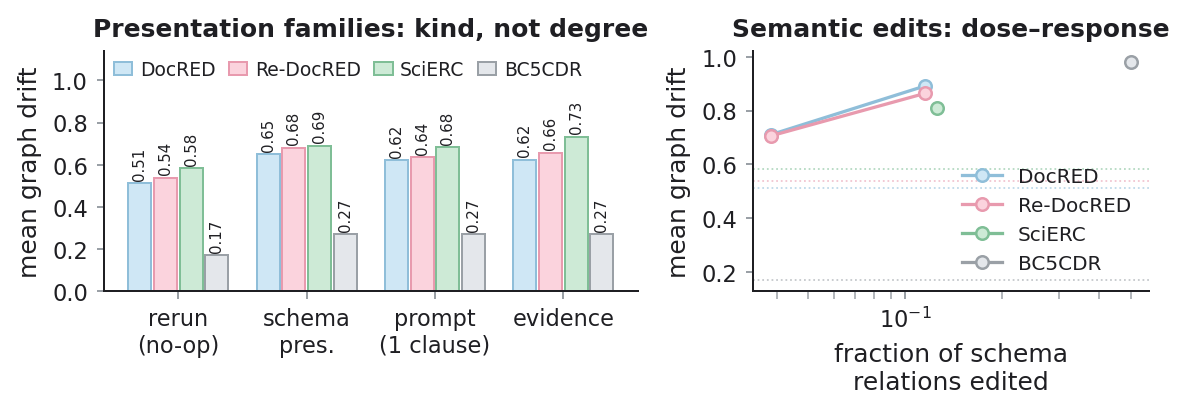
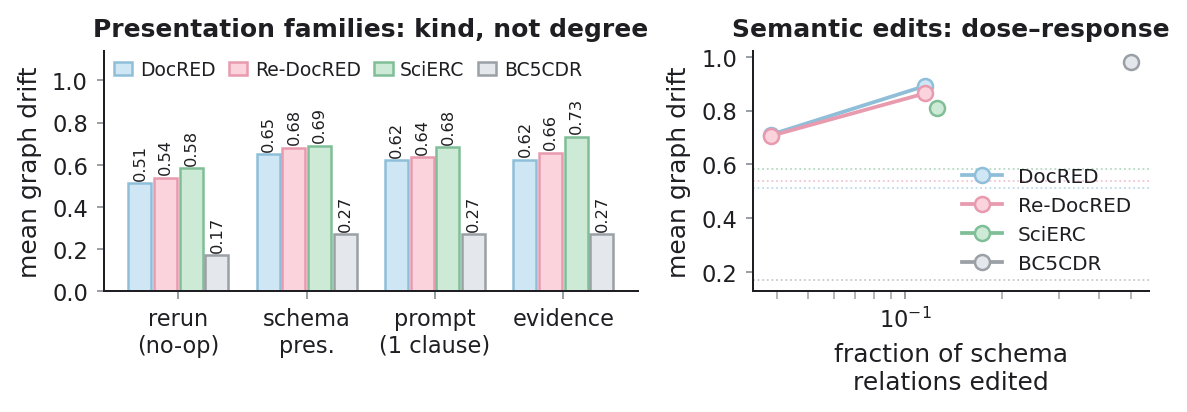
figs: native single-column noise-floor and calibration figures, magnitude polish
Same 1x4 row footprint; fonts now render ~1:1 (were ~43% scale), thicker
edges, vertical bar labels, D0 marked inside each panel, compact legends.

diff --git a/scripts/make_paper_figures.py b/scripts/make_paper_figures.py
@@ -447,11 +447,11 @@ def noise_floor_from_db(tag: str) -> float:
 # ──────────────────────────────────────────────────────────────────────────────
 
 def make_calibration_figure():
-    _S.apply_rc(font_size=10)
-    # Single-column display ~3.5" wide → 2x2 grid keeps each subplot ~1.75" wide.
-    # Keep 1x4 layout per user request, but small canvas so native fonts render large.
-    fig, axes = plt.subplots(1, 4, figsize=(7.6, 2.3), sharey=True)
-    eps = 0.05  # SLA: ≤5% harmful publication rate
+    # Native single-column canvas (like fig_riskcoverage): fonts render ~1:1.
+    _S.apply_rc(font_size=7)
+    fig, axes = plt.subplots(1, 4, figsize=(3.5, 1.4), sharey=True,
+                             gridspec_kw={"wspace": 0.14})
+    eps = 0.05  # SLA: <=5% harmful publication rate
 
     blue_line = _BLUE
     red_line  = _PINK
@@ -462,60 +462,52 @@ def make_calibration_figure():
         pairs = load_pairs(tag)
         taus, cov, harm = compute_calibration(pairs, score_key="graph_drift")
 
-        # Largest τ such that publication harm rate still satisfies SLA.
-        # Smaller τ trivially passes (publishes nothing) → not useful as
-        # an operating point.
         feasible = np.where(harm <= eps)[0]
         if len(feasible):
-            idx_star = feasible[-1]
-            tau_star = taus[idx_star]
-            cov_star = cov[idx_star]
+            tau_star = taus[feasible[-1]]
         else:
-            tau_star = cov_star = None
+            tau_star = None
 
         ax.fill_between(taus, cov, alpha=0.25, color=gray_fill)
-        ax.plot(taus, cov, color=blue_line, lw=1.6, label="Coverage")
-        ax.plot(taus, harm, color=red_line, lw=1.6, ls="--", label="Pub. harm")
-        ax.axhline(eps, color=red_line, lw=0.8, ls=":", alpha=0.7)
+        ax.plot(taus, cov, color=blue_line, lw=1.1, label="Coverage")
+        ax.plot(taus, harm, color=red_line, lw=1.1, ls="--", label="Pub. harm")
+        ax.axhline(eps, color=red_line, lw=0.7, ls=":", alpha=0.7)
         if tau_star is not None:
-            ax.axvline(tau_star, color=green, lw=1.4, ls="-.")
-            ax.text(min(tau_star + 0.04, 0.80), 0.92,
+            ax.axvline(tau_star, color=green, lw=1.1, ls="-.")
+            ax.text(min(tau_star + 0.06, 0.62), 0.9,
                     rf"$\tau^*$={tau_star:.2f}",
-                    fontsize=9, color=green, fontweight="bold")
+                    fontsize=6.5, color=green, fontweight="bold")
         else:
-            ax.text(0.5, 0.5, "infeasible\nunder graph-only gate",
-                    ha="center", va="center", fontsize=9,
+            ax.text(0.5, 0.6, "infeasible",
+                    ha="center", va="center", fontsize=6.5,
                     color=red_line, fontweight="bold",
                     transform=ax.transAxes)
 
         ax.set_xlim(0, 1)
         ax.set_ylim(-0.02, 1.08)
-        ax.set_xlabel(r"$\tau$", fontsize=11)
-        ax.set_title(name, fontsize=11, fontweight="bold")
-        ax.tick_params(labelsize=9)
-        ax.set_xticks([0, 0.25, 0.5, 0.75, 1.0])
+        ax.set_xlabel(r"$\tau$", fontsize=7)
+        ax.set_title(name, fontsize=7, fontweight="bold")
+        ax.tick_params(labelsize=6)
+        ax.set_xticks([0, 0.5, 1.0])
+        ax.set_xticklabels(["0", ".5", "1"])
         ax.grid(axis="y", ls=":", alpha=0.4)
-        for s in ("top", "right"):
-            ax.spines[s].set_visible(False)
+        for sp in ("top", "right"):
+            ax.spines[sp].set_visible(False)
         if ax is axes[0]:
-            ax.set_ylabel("Rate", fontsize=11)
+            ax.set_ylabel("Rate", fontsize=6.5)
 
     handles, labels = axes[0].get_legend_handles_labels()
-    handles.append(plt.Line2D([0], [0], color=green, lw=1.4, ls="-."))
-    labels.append(r"$\tau^*$ (operating point)")
-    handles.append(plt.Line2D([0], [0], color=red_line, lw=0.8, ls=":"))
+    handles.append(plt.Line2D([0], [0], color=green, lw=1.1, ls="-."))
+    labels.append(r"$\tau^*$")
+    handles.append(plt.Line2D([0], [0], color=red_line, lw=0.7, ls=":"))
     labels.append(rf"SLA $\epsilon$={eps}")
-    fig.legend(handles, labels, ncol=4, loc="upper center",
-               bbox_to_anchor=(0.5, 0.04), fontsize=10,
-               frameon=False, handlelength=2.0)
+    fig.legend(handles, labels, ncol=4, loc="lower center",
+               bbox_to_anchor=(0.5, -0.26), fontsize=6,
+               frameon=False, handlelength=1.4, columnspacing=1.0)
 
-    fig.suptitle(
-        rf"SLA-driven $\tau$ calibration (SLA $\epsilon$={eps})",
-        fontsize=11, y=1.02
-    )
     fig.tight_layout()
     out = FIG_DIR / "fig_calibration.png"
-    fig.savefig(str(out), dpi=200, bbox_inches="tight")
+    fig.savefig(str(out), dpi=400, bbox_inches="tight")
     plt.close(fig)
     print(f"[W2] saved {out}")
 
@@ -525,28 +517,22 @@ def make_calibration_figure():
 # ──────────────────────────────────────────────────────────────────────────────
 
 def make_noise_floor_figure():
-    _S.apply_rc(font_size=10)
+    # Native single-column 1x4 row: same footprint as before, fonts ~1:1.
+    _S.apply_rc(font_size=7)
     FAMILY_LABELS = {
         "stochastic":   "Stoch.",
-        "entity_alias": "Ent.alias",
+        "entity_alias": "Alias",
         "prompt":       "Prompt",
         "evidence":     "Evid.",
         "schema":       "Schema",
     }
     ORDER = ["stochastic", "entity_alias", "prompt", "evidence", "schema"]
-    # Use unified palette: gradient from light to dark within blue family.
-    colors = {
-        "stochastic":   _GRAY_LIGHT,
-        "entity_alias": _BLUE_LIGHT,
-        "prompt":       _BLUE,
-        "evidence":     _PINK,
-        "schema":       _PINK_LIGHT,
-    }
     excess_color = _PINK
     base_color   = _BLUE_LIGHT
     floor_line   = _PINK
 
-    fig, axes = plt.subplots(1, 4, figsize=(7.6, 2.6), sharey=True)
+    fig, axes = plt.subplots(1, 4, figsize=(3.5, 1.45), sharey=True,
+                             gridspec_kw={"wspace": 0.14})
 
     for ax, (tag, name) in zip(axes, CORPORA):
         pairs = load_pairs(tag)
@@ -557,7 +543,7 @@ def make_noise_floor_figure():
             by_fam.setdefault(p["family"], []).append(p["graph_drift"])
 
         x = np.arange(len(ORDER))
-        bar_w = 0.62
+        bar_w = 0.68
         for i, fam in enumerate(ORDER):
             drifts = by_fam.get(fam, [])
             if not drifts:
@@ -566,27 +552,27 @@ def make_noise_floor_figure():
             base = min(D0, mean_d)
             excess = max(0.0, mean_d - D0)
             ax.bar(i, base, bar_w, color=base_color, edgecolor=_BLUE,
-                   linewidth=0.5, zorder=3)
+                   linewidth=0.7, zorder=3)
             ax.bar(i, excess, bar_w, bottom=base, color=excess_color,
-                   edgecolor=_PINK, linewidth=0.5, zorder=3)
-            ax.text(i, mean_d + 0.02, f"{mean_d:.2f}", ha="center",
-                    va="bottom", fontsize=8, color=_BLACK)
+                   edgecolor=_PINK, linewidth=0.7, zorder=3)
+            ax.text(i, mean_d + 0.03, f"{mean_d:.2f}", rotation=90,
+                    ha="center", va="bottom", fontsize=5.5, color=_BLACK)
 
-        ax.axhline(D0, color=floor_line, lw=1.2, ls="--",
-                   label=fr"$D_0$={D0:.2f}")
+        ax.axhline(D0, color=floor_line, lw=1.0, ls="--")
+        ax.text(0.96, 0.96, rf"$D_0$={D0:.2f}", transform=ax.transAxes,
+                ha="right", va="top", fontsize=5.5, color=floor_line,
+                fontweight="bold")
         ax.set_xticks(x)
         ax.set_xticklabels([FAMILY_LABELS[f] for f in ORDER],
-                           fontsize=8.5, rotation=30, ha="right")
-        ax.set_title(name, fontsize=11, fontweight="bold")
-        ax.tick_params(axis="y", labelsize=9)
-        ax.set_ylim(0, 1.05)
+                           fontsize=5.5, rotation=42, ha="right")
+        ax.set_title(name, fontsize=7, fontweight="bold", pad=3)
+        ax.tick_params(axis="y", labelsize=6)
+        ax.set_ylim(0, 1.12)
+        ax.set_yticks([0, 0.5, 1.0])
         ax.grid(axis="y", ls=":", alpha=0.4)
-        ax.legend(fontsize=8.5, loc="upper left", framealpha=0.9,
-                  handlelength=1.5)
-        for s in ("top", "right"):
-            ax.spines[s].set_visible(False)
-        if ax is axes[0]:
-            ax.set_ylabel("Mean graph drift", fontsize=10)
+        for sp in ("top", "right"):
+            ax.spines[sp].set_visible(False)
+    axes[0].set_ylabel("Mean drift", fontsize=6.5)
 
     from matplotlib.patches import Patch
     legend_handles = [
@@ -594,14 +580,11 @@ def make_noise_floor_figure():
         Patch(facecolor=excess_color, edgecolor=_PINK, label="Excess drift"),
     ]
     fig.legend(handles=legend_handles, loc="lower center", ncol=2,
-               fontsize=9.5, bbox_to_anchor=(0.5, -0.04), frameon=False)
-    fig.suptitle(
-        r"Perturbation drift vs. stochastic noise floor $D_0$",
-        fontsize=11, y=1.02
-    )
+               fontsize=6, bbox_to_anchor=(0.5, -0.30), frameon=False,
+               handlelength=1.2, columnspacing=1.0)
     fig.tight_layout()
     out = FIG_DIR / "fig_noise_floor.png"
-    fig.savefig(str(out), dpi=200, bbox_inches="tight")
+    fig.savefig(str(out), dpi=400, bbox_inches="tight")
     plt.close(fig)
     print(f"[W1] saved {out}")
 

diff --git a/scripts/run_magnitude_analysis.py b/scripts/run_magnitude_analysis.py
@@ -387,11 +387,11 @@ def make_figure(runs: list[str]) -> None:
         xs = [j + i * w for j in range(len(cats))]
         ax.bar(xs, [v or 0 for v in vals], width=w * 0.9,
                color=fills[i % len(fills)], edgecolor=colors[i % len(colors)],
-               linewidth=0.8, label=label.get(corpus, corpus))
+               linewidth=1.0, label=label.get(corpus, corpus))
         for x, v in zip(xs, vals):
             if v:
                 ax.text(x, v + 0.015, f"{v:.2f}", rotation=90,
-                        ha="center", va="bottom", fontsize=6, color=_S.BLACK)
+                        ha="center", va="bottom", fontsize=6.5, color=_S.BLACK)
     ax.set_xticks([j + w * (len(data) - 1) / 2 for j in range(len(cats))])
     ax.set_xticklabels(["rerun\n(no-op)", "schema\npres.", "prompt\n(1 clause)", "evidence"])
     ax.set_ylabel("mean graph drift", fontsize=10)
@@ -424,7 +424,7 @@ def make_figure(runs: list[str]) -> None:
         if pts:
             ax.plot([x for x, _, _ in pts], [y for _, y, _ in pts], "o-",
                     color=colors[i % len(colors)], markerfacecolor=fills[i % len(fills)],
-                    markeredgecolor=colors[i % len(colors)], markersize=5, linewidth=1.3,
+                    markeredgecolor=colors[i % len(colors)], markersize=6, linewidth=1.5,
                     label=label.get(corpus, corpus))
         noop = (d["summary"].get("stochastic") or {}).get("mean_drift")
         if noop is not None:
